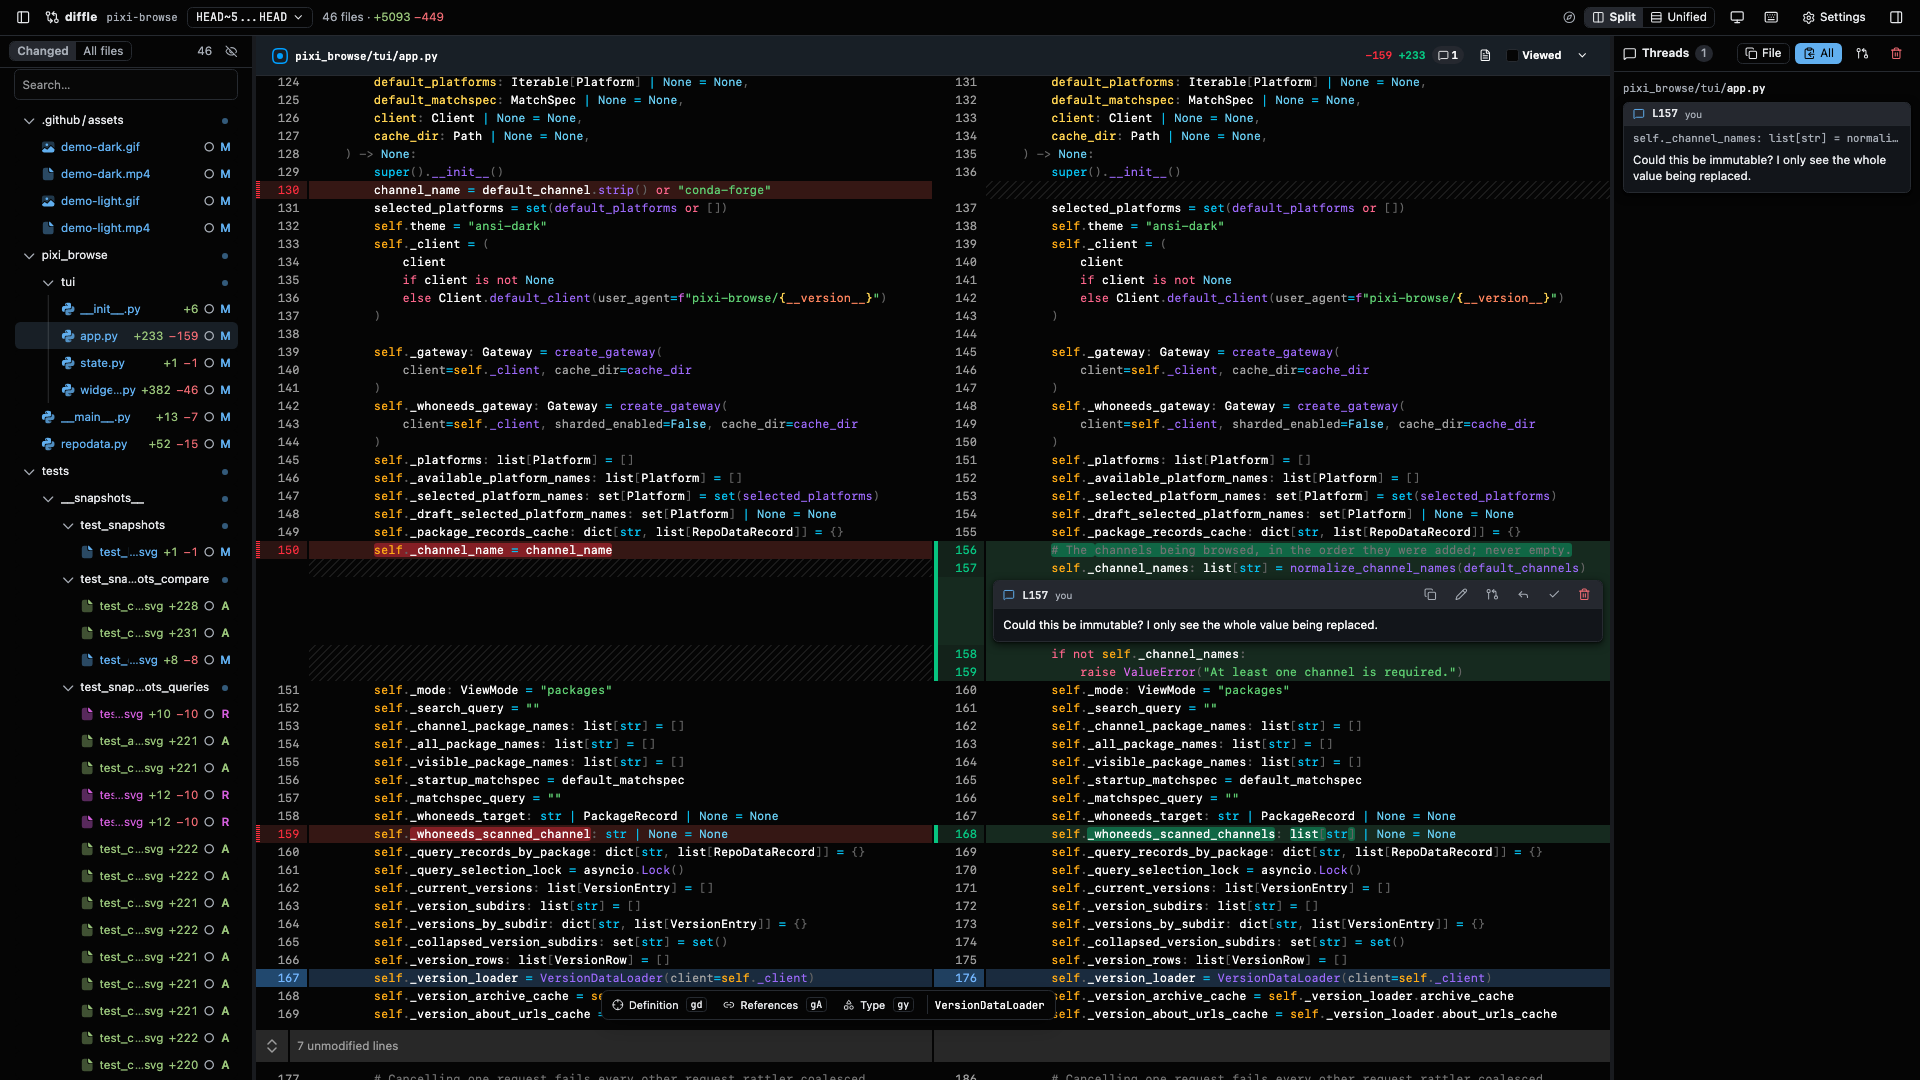
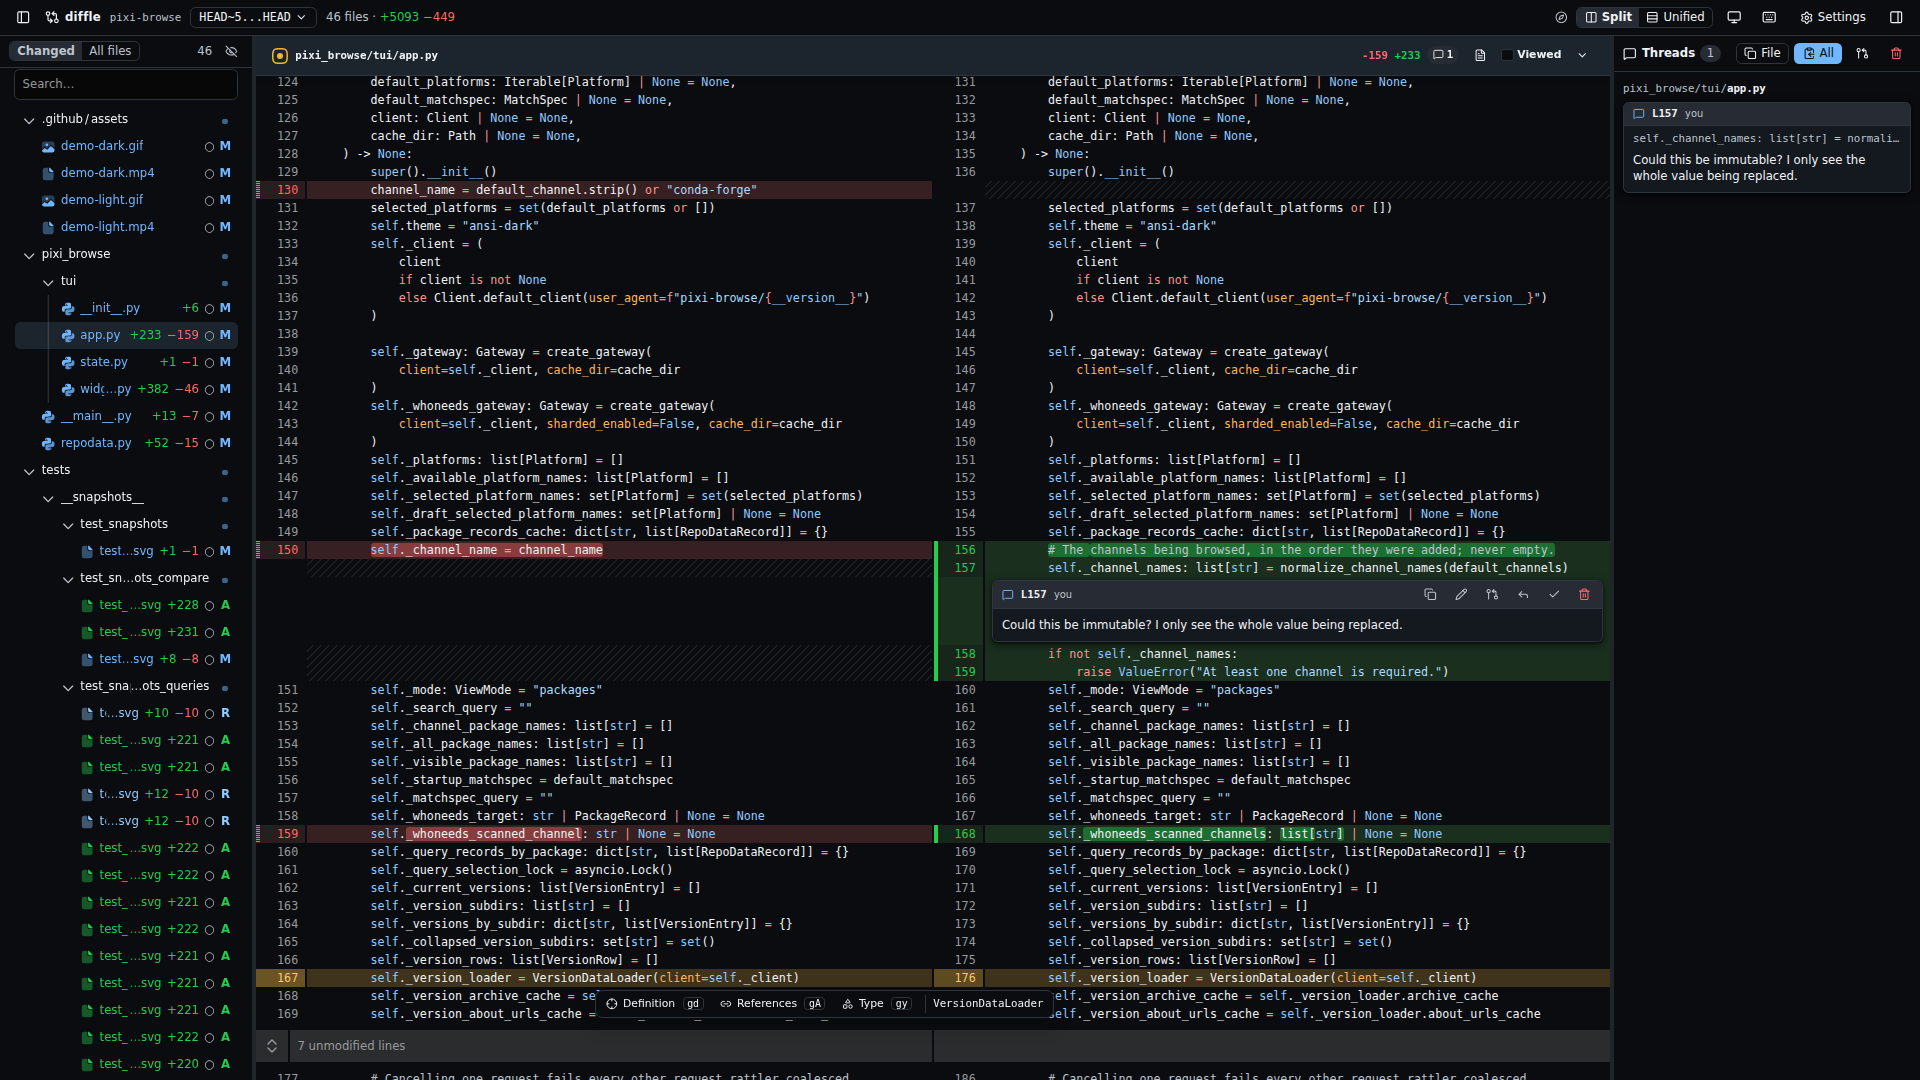
feat: GitHub high-contrast syntax themes (#40)

diff --git a/src/client/styles.css b/src/client/styles.css
@@ -1,75 +1,76 @@
 :root {
   color-scheme: light dark;
-  /* Light: Primer-derived scale. One blue (accent = callable), one red (danger = del), one amber (warn = value);
-     every text colour clears 4.5:1 on --bg-2. Dark below mirrors the same roles. */
+  /* Both palettes are read off the Shiki themes the code is highlighted with (see `SHIKI_THEMES` in theme.ts):
+     github-light-high-contrast here, github-dark-high-contrast below. --bg is the theme's editor canvas, the
+     kind-* colours are its function/constant/variable token colours, so chrome and code never disagree. */
   --bg: #ffffff;
-  --bg-2: #f6f8fa;
-  --bg-3: #e6eaef;
-  --fg: #1f2328;
-  --fg-2: #4c5560;
-  --border: #d0d7de;
-  --accent: #0969da;
+  --bg-2: #f0f3f6;
+  --bg-3: #e7ecf0;
+  --fg: #0e1116;
+  --fg-2: #66707b;
+  --border: #acb6c0;
+  --accent: #0349b4;
   --accent-fg: #ffffff;
-  --danger: #cf222e;
-  --warn: #9a6700;
-  --add: #1a7f37;
-  --del: #cf222e;
-  --kind-type: #8250df;
-  --kind-callable: #0969da;
-  --kind-value: #9a6700;
-  --search-match: #fff1a8;
-  --search-current: #f2b705;
-  --search-current-fg: #1f2328;
+  --danger: #a0111f;
+  --warn: #744500;
+  --add: #055d20;
+  --del: #a0111f;
+  --kind-type: #023b95;
+  --kind-callable: #622cbc;
+  --kind-value: #702c00;
+  --search-match: #f0ce5380;
+  --search-current: #e09b13;
+  --search-current-fg: #0e1116;
   --bg-card: #ffffff;
-  --shadow-card: 0 1px 2px rgba(31, 35, 40, 0.08), 0 0.1875rem 0.625rem rgba(31, 35, 40, 0.1);
+  --shadow-card: 0 1px 2px rgba(14, 17, 22, 0.08), 0 0.1875rem 0.625rem rgba(14, 17, 22, 0.1);
   --mono: ui-monospace, 'JetBrains Mono', 'SF Mono', Menlo, Consolas, monospace;
   --sans: system-ui, -apple-system, 'Segoe UI', Roboto, sans-serif;
 }
-/* Dark: one near-black ground everywhere, Zed One Dark accents. Sidebars share --bg so only borders divide panes. */
+/* Dark: the theme's own near-black canvas everywhere, its token colours for our roles. Sidebars share --bg so only borders divide panes. */
 @media (prefers-color-scheme: dark) {
   :root:not([data-theme='light']) {
-    --bg: #050505;
-    --bg-2: #050505;
-    --bg-3: #25282f;
-    --fg: #e6e8eb;
-    --fg-2: #a6acb5;
-    --border: #262a30;
-    --accent: #61afef;
-    --accent-fg: #050505;
-    --danger: #ef6b73;
-    --warn: #e5c07b;
-    --add: #98c379;
-    --del: #ef6b73;
-    --kind-type: #d55fde;
-    --kind-callable: #61afef;
-    --kind-value: #f19640;
-    --search-match: #5a4a06;
-    --search-current: #e5c07b;
-    --search-current-fg: #050505;
-    --bg-card: #12151a;
+    --bg: #0a0c10;
+    --bg-2: #0a0c10;
+    --bg-3: #272b33;
+    --fg: #f0f3f6;
+    --fg-2: #bdc4cc;
+    --border: #2f353d;
+    --accent: #71b7ff;
+    --accent-fg: #0a0c10;
+    --danger: #ff6a69;
+    --warn: #f0ce53;
+    --add: #26cd4d;
+    --del: #ff6a69;
+    --kind-type: #91cbff;
+    --kind-callable: #dbb7ff;
+    --kind-value: #ffb757;
+    --search-match: #fbd66940;
+    --search-current: #e09b13;
+    --search-current-fg: #0a0c10;
+    --bg-card: #14181f;
     --shadow-card: 0 1px 2px rgba(0, 0, 0, 0.5), 0 0.1875rem 0.625rem rgba(0, 0, 0, 0.6);
   }
 }
 :root[data-theme='dark'] {
-  --bg: #050505;
-  --bg-2: #050505;
-  --bg-3: #25282f;
-  --fg: #e6e8eb;
-  --fg-2: #a6acb5;
-  --border: #262a30;
-  --accent: #61afef;
-  --accent-fg: #050505;
-  --danger: #ef6b73;
-  --warn: #e5c07b;
-  --add: #98c379;
-  --del: #ef6b73;
-  --kind-type: #d55fde;
-  --kind-callable: #61afef;
-  --kind-value: #f19640;
-  --search-match: #5a4a06;
-  --search-current: #e5c07b;
-  --search-current-fg: #050505;
-  --bg-card: #12151a;
+  --bg: #0a0c10;
+  --bg-2: #0a0c10;
+  --bg-3: #272b33;
+  --fg: #f0f3f6;
+  --fg-2: #bdc4cc;
+  --border: #2f353d;
+  --accent: #71b7ff;
+  --accent-fg: #0a0c10;
+  --danger: #ff6a69;
+  --warn: #f0ce53;
+  --add: #26cd4d;
+  --del: #ff6a69;
+  --kind-type: #91cbff;
+  --kind-callable: #dbb7ff;
+  --kind-value: #ffb757;
+  --search-match: #fbd66940;
+  --search-current: #e09b13;
+  --search-current-fg: #0a0c10;
+  --bg-card: #14181f;
   --shadow-card: 0 1px 2px rgba(0, 0, 0, 0.5), 0 0.1875rem 0.625rem rgba(0, 0, 0, 0.6);
 }
 

diff --git a/src/client/review/ReviewPane.tsx b/src/client/review/ReviewPane.tsx
@@ -24,6 +24,7 @@ import { SymbolPicker } from '../lsp/SymbolPicker.js';
 import { lspTarget, type TokenTarget } from '../lsp/target.js';
 import { isCollapsed, itemDeps, itemId, itemVersion, orderedPaths, pathFromItemId, viewedState, visibleThreads, type ItemVersion } from '../model.js';
 import { remPx } from '../scale.js';
+import { SHIKI_THEMES } from '../theme.js';
 import { useStore, type Draft, type Loaded, type ReviewState } from '../store.js';
 import { rowOf } from './rows.js';
 import { onSelectionChanged, setViewer } from '../lsp/wordNav.js';
@@ -82,7 +83,8 @@ const HEADER_CSS = `
 .lsp-focus { outline: 1px solid var(--accent); outline-offset: 1px; border-radius: 3px; }
 /* Word-level changes: the library's default tint sits too close to the line tint to pick out. */
 :host {
-  /* The shiki theme's own canvas colour would leave the code area a different shade from the panes around it. */
+  /* Pin the code canvas to our ground. Our palette is the same GitHub high-contrast theme, so this only
+     guarantees the match for the dark panes, which share --bg where the theme would tint them. */
   --diffs-dark-bg: var(--bg);
   --diffs-light-bg: var(--bg);
   /* Dark keeps context rows on the same ground as the panes; light keeps the library's faint grey tint. */
@@ -169,6 +171,7 @@ function markHover(el: HTMLElement, on: boolean): void {
 
 const codeViewOptions = {
   unsafeCSS: HEADER_CSS,
+  theme: SHIKI_THEMES,
   loadDiffFiles,
   stickyHeaders: true,
   enableLineSelection: true,

diff --git a/test/client/lspHighlight.test.ts b/test/client/lspHighlight.test.ts
@@ -17,13 +17,15 @@ vi.mock('@pierre/diffs', () => ({
     return {
       codeToTokensBase: (line: string, opts: { theme: string }) => {
         tokenized.push(line);
-        return [[{ content: line, color: opts.theme === 'pierre-dark' ? '#abc' : '#def' }]];
+        // The literal is pinned to SHIKI_THEMES.dark by a test below; a vi.mock factory cannot read an import.
+        return [[{ content: line, color: opts.theme === 'github-dark-high-contrast' ? '#abc' : '#def' }]];
       },
     };
   },
 }));
 
 const { CodeLine, useHighlighted } = await import('../../src/client/lsp/highlight.js');
+const { SHIKI_THEMES } = await import('../../src/client/theme.js');
 
 const files = ['a.ts', 'b.ts', 'c.ts', 'd.ts'];
 const items = files.flatMap((path) => [0, 1, 2].map((n) => ({ path, text: `${path}:${n}` })));
@@ -133,5 +135,12 @@ describe('useHighlighted', () => {
     expect(host.querySelector('.hl span')).toHaveProperty('style.color', 'rgb(221, 238, 255)');
     await act(() => root.render(createElement(List, { near: 0, theme: 'light', rows: items.slice(0, 3) })));
     expect(host.querySelectorAll('.plain')).toHaveLength(3);
+  });
+});
+
+describe('theme names', () => {
+  // The mock above matches on these literals; a rename here must reach it.
+  it('are the ones the mocked highlighter keys on', () => {
+    expect(SHIKI_THEMES).toEqual({ light: 'github-light-high-contrast', dark: 'github-dark-high-contrast' });
   });
 });

diff --git a/src/client/lsp/highlight.tsx b/src/client/lsp/highlight.tsx
@@ -1,13 +1,11 @@
 import { getFiletypeFromFileName, getSharedHighlighter, type SupportedLanguages } from '@pierre/diffs';
 import { useEffect, useMemo, useRef, useState } from 'react';
-import type { ThemeChoice } from '../theme.js';
+import { SHIKI_THEMES, type ThemeChoice } from '../theme.js';
 
 export interface HlToken {
   text: string;
   color?: string;
 }
-
-const THEMES = { dark: 'pierre-dark', light: 'pierre-light' } as const;
 
 /** Lines tokenized between yields to the event loop; a big result file must not hold the main thread. */
 const CHUNK = 200;
@@ -27,8 +25,8 @@ export async function highlightLines(lines: string[], path: string, theme: Theme
 
 /** Like `highlightLines`, for a language named directly (a markdown fence's info string). */
 export async function highlightCode(lines: string[], lang: SupportedLanguages, theme: ThemeChoice): Promise<HlToken[][]> {
-  const themeName = isDark(theme) ? THEMES.dark : THEMES.light;
-  const highlighter = await getSharedHighlighter({ themes: [THEMES.dark, THEMES.light], langs: [lang] });
+  const themeName = isDark(theme) ? SHIKI_THEMES.dark : SHIKI_THEMES.light;
+  const highlighter = await getSharedHighlighter({ themes: [SHIKI_THEMES.dark, SHIKI_THEMES.light], langs: [lang] });
   return lines.map((line) => {
     try {
       const [tokens = []] = highlighter.codeToTokensBase(line, { lang, theme: themeName });

diff --git a/src/client/Markdown.tsx b/src/client/Markdown.tsx
@@ -6,6 +6,7 @@ import ReactMarkdown, { defaultUrlTransform } from 'react-markdown';
 import remarkGfm from 'remark-gfm';
 import { HighlightedCode } from './lsp/highlight.js';
 import { useStore } from './store.js';
+import { SHIKI_THEMES } from './theme.js';
 
 /**
  * Comment body as GitHub-flavored markdown. Raw HTML stays literal and images
@@ -76,7 +77,7 @@ function Highlighted({ path, source }: { path: string; source: string }) {
   const pool = useWorkerPool();
   const [primed, setPrimed] = useState(0);
   const file = useMemo(() => ({ name: path, contents: source, cacheKey: `suggestion:${path}:${source}` }), [path, source]);
-  const options = useMemo(() => ({ themeType: theme, disableFileHeader: true, disableLineNumbers: true, overflow: 'wrap' as const }), [theme]);
+  const options = useMemo(() => ({ theme: SHIKI_THEMES, themeType: theme, disableFileHeader: true, disableLineNumbers: true, overflow: 'wrap' as const }), [theme]);
   // The File component paints nothing until a highlight exists, so fill the pool's cache first and re-render on it.
   useEffect(() => {
     let live = true;

diff --git a/src/client/main.tsx b/src/client/main.tsx
@@ -4,7 +4,7 @@ import { StrictMode } from 'react';
 import { createRoot } from 'react-dom/client';
 import { App } from './App.js';
 import './styles.css';
-import { applyTheme, readTheme } from './theme.js';
+import { applyTheme, readTheme, SHIKI_THEMES } from './theme.js';
 
 // Apply the saved theme before first paint.
 applyTheme(readTheme());
@@ -18,7 +18,7 @@ createRoot(document.getElementById('root')!).render(
     <WorkerPoolContextProvider
       poolOptions={{ poolSize, workerFactory: () => new DiffsWorker() }}
       // useTokenTransformer: token spans get hit-test data so symbol clicks work; the pool's options win over the viewer's.
-      highlighterOptions={{ preferredHighlighter: 'shiki-js', useTokenTransformer: true }}
+      highlighterOptions={{ preferredHighlighter: 'shiki-js', useTokenTransformer: true, theme: SHIKI_THEMES }}
     >
       <App />
     </WorkerPoolContextProvider>

diff --git a/src/client/theme.ts b/src/client/theme.ts
@@ -1,4 +1,12 @@
+import type { ThemesType } from '@pierre/diffs';
+
 export type ThemeChoice = 'system' | 'light' | 'dark';
+
+/**
+ * The Shiki themes the viewer, the markdown renderer and our own tokenizers all highlight with.
+ * The app palette in `styles.css` is derived from these two, so code and chrome share one look.
+ */
+export const SHIKI_THEMES: ThemesType = { light: 'github-light-high-contrast', dark: 'github-dark-high-contrast' };
 const KEY = 'diffle:theme';
 
 export function readTheme(): ThemeChoice {
